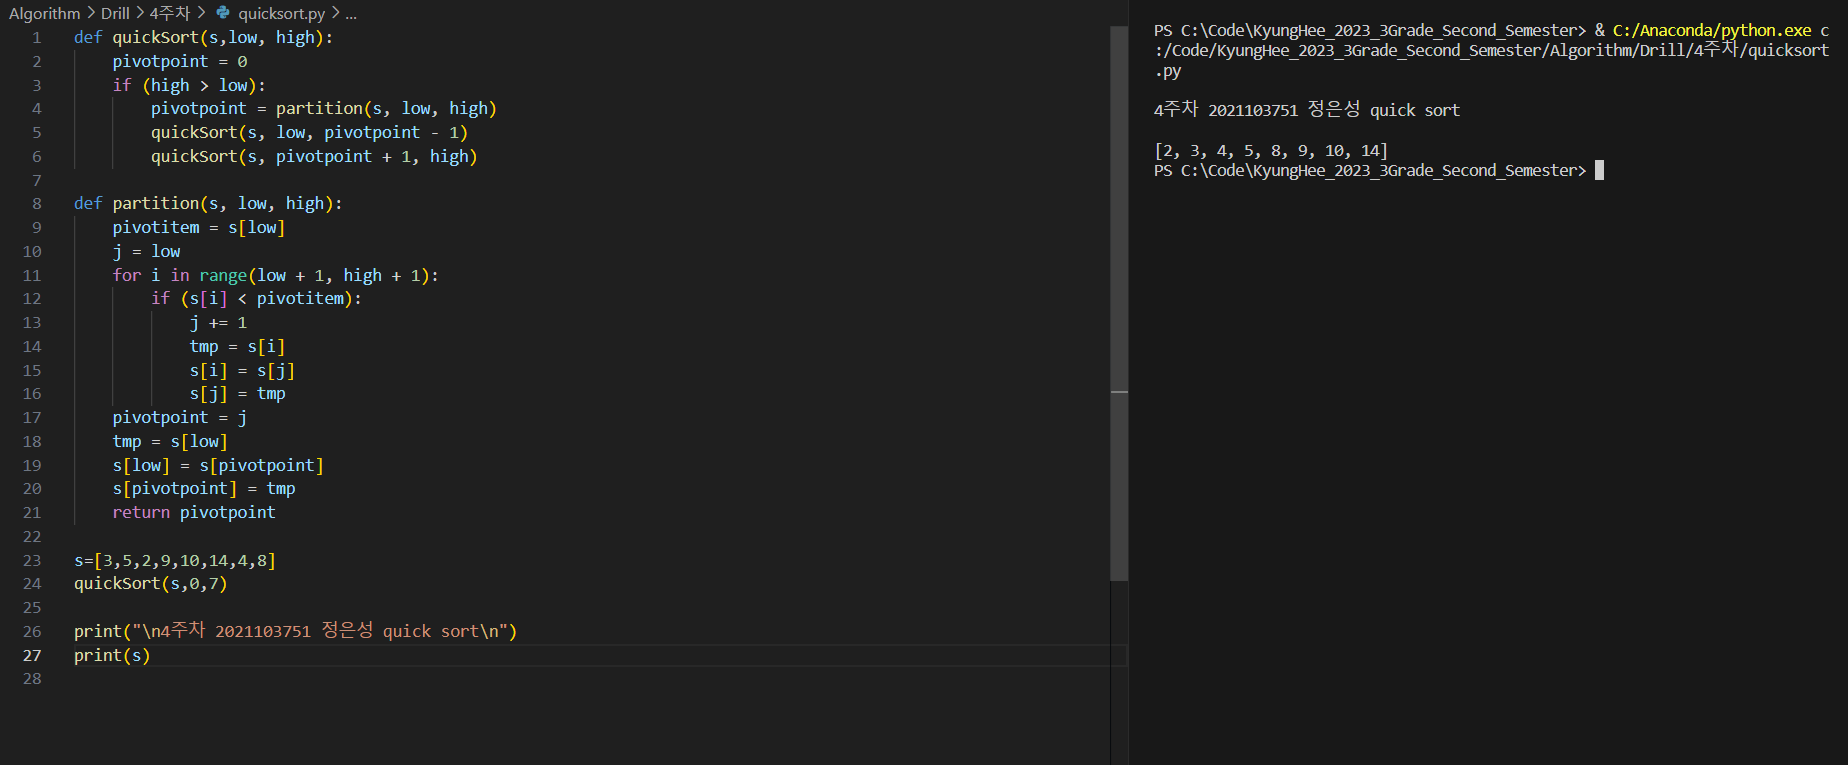
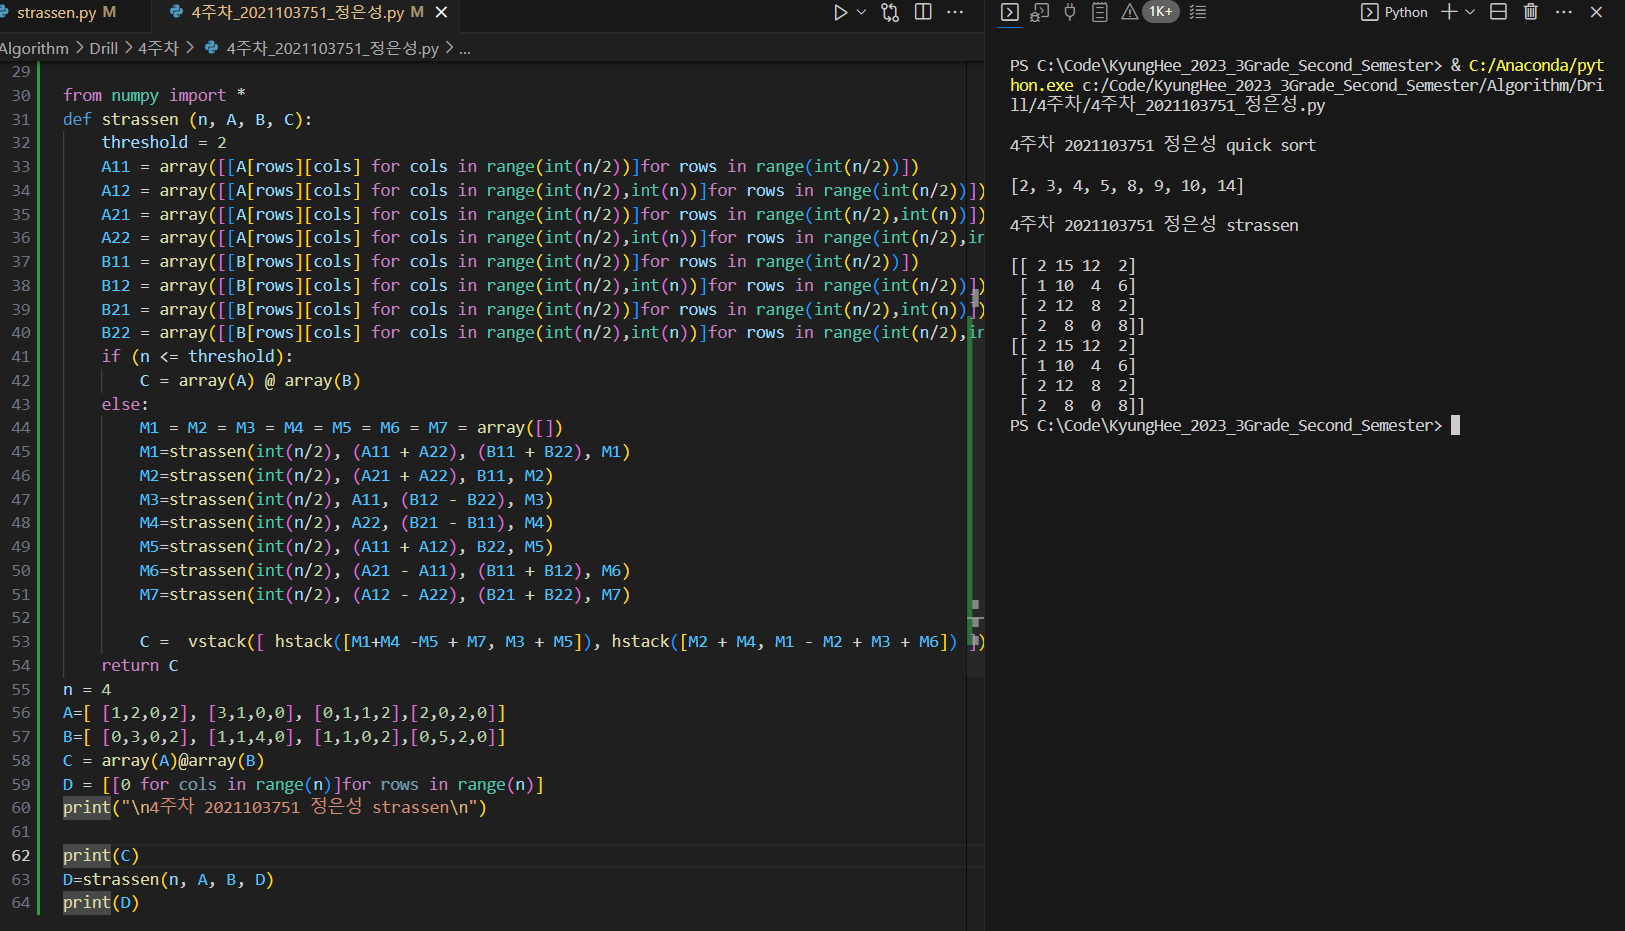
알고리즘 수정

Changed region(s): [[0.0, 0.0, 1.0, 0.9922], [0.5231, 0.0, 0.5846, 0.0301]]

diff --git a/Algorithm/Drill/4주차/4주차_2021103751_정은성.py b/Algorithm/Drill/4주차/4주차_2021103751_정은성.py
@@ -25,3 +25,40 @@ quickSort(s,0,7)
 
 print("\n4주차 2021103751 정은성 quick sort\n")
 print(s)
+
+
+from numpy import *
+def strassen (n, A, B, C):
+    threshold = 2
+    A11 = array([[A[rows][cols] for cols in range(int(n/2))]for rows in range(int(n/2))])
+    A12 = array([[A[rows][cols] for cols in range(int(n/2),int(n))]for rows in range(int(n/2))])
+    A21 = array([[A[rows][cols] for cols in range(int(n/2))]for rows in range(int(n/2),int(n))])
+    A22 = array([[A[rows][cols] for cols in range(int(n/2),int(n))]for rows in range(int(n/2),int(n))])
+    B11 = array([[B[rows][cols] for cols in range(int(n/2))]for rows in range(int(n/2))])
+    B12 = array([[B[rows][cols] for cols in range(int(n/2),int(n))]for rows in range(int(n/2))])
+    B21 = array([[B[rows][cols] for cols in range(int(n/2))]for rows in range(int(n/2),int(n))])
+    B22 = array([[B[rows][cols] for cols in range(int(n/2),int(n))]for rows in range(int(n/2),int(n))])
+    if (n <= threshold):
+        C = array(A) @ array(B)
+    else:
+        M1 = M2 = M3 = M4 = M5 = M6 = M7 = array([])
+        M1=strassen(int(n/2), (A11 + A22), (B11 + B22), M1)
+        M2=strassen(int(n/2), (A21 + A22), B11, M2)
+        M3=strassen(int(n/2), A11, (B12 - B22), M3)
+        M4=strassen(int(n/2), A22, (B21 - B11), M4)
+        M5=strassen(int(n/2), (A11 + A12), B22, M5)
+        M6=strassen(int(n/2), (A21 - A11), (B11 + B12), M6)
+        M7=strassen(int(n/2), (A12 - A22), (B21 + B22), M7)
+
+        C =  vstack([ hstack([M1+M4 -M5 + M7, M3 + M5]), hstack([M2 + M4, M1 - M2 + M3 + M6]) ])
+    return C
+n = 4
+A=[ [1,2,0,2], [3,1,0,0], [0,1,1,2],[2,0,2,0]]
+B=[ [0,3,0,2], [1,1,4,0], [1,1,0,2],[0,5,2,0]]
+C = array(A)@array(B)
+D = [[0 for cols in range(n)]for rows in range(n)]
+print("\n4주차 2021103751 정은성 strassen\n")
+
+print(C)
+D=strassen(n, A, B, D)
+print(D)

diff --git a/Algorithm/Drill/4주차/strassen.py b/Algorithm/Drill/4주차/strassen.py
@@ -1,5 +1,3 @@
-# numpy를 이용하여 보다 간결하게 만들었습니다.
-
 from numpy import *
 def strassen (n, A, B, C):
     threshold = 2
@@ -11,10 +9,6 @@ def strassen (n, A, B, C):
     B12 = array([[B[rows][cols] for cols in range(int(n/2),int(n))]for rows in range(int(n/2))])
     B21 = array([[B[rows][cols] for cols in range(int(n/2))]for rows in range(int(n/2),int(n))])
     B22 = array([[B[rows][cols] for cols in range(int(n/2),int(n))]for rows in range(int(n/2),int(n))])
-
-         
-
-#    print(A11, A12, A21, A22, B11, B12, B21, B22)
     if (n <= threshold):
         C = array(A) @ array(B)
     else:
@@ -30,8 +24,6 @@ def strassen (n, A, B, C):
         C =  vstack([ hstack([M1+M4 -M5 + M7, M3 + M5]), hstack([M2 + M4, M1 - M2 + M3 + M6]) ])
     return C
 n = 4
-#A = [[1 for cols in range(n)]for rows in range(n)]
-#B = [[2 for cols in range(n)]for rows in range(n)]
 A=[ [1,2,0,2], [3,1,0,0], [0,1,1,2],[2,0,2,0]]
 B=[ [0,3,0,2], [1,1,4,0], [1,1,0,2],[0,5,2,0]]
 C = array(A)@array(B)
@@ -39,7 +31,3 @@ D = [[0 for cols in range(n)]for rows in range(n)]
 print(C)
 D=strassen(n, A, B, D)
 print(D)
-
-# 본 콘텐츠를 무단으로 복사 후 게재 혹은 배포할 시 저작권법에 의거하여 처벌받을 수 있음을 명시합니다.
-# 출처 : https://ssocoit.tistory.com/65 [코딩하는 경제학도]
-# Copyright © SsocoIT
